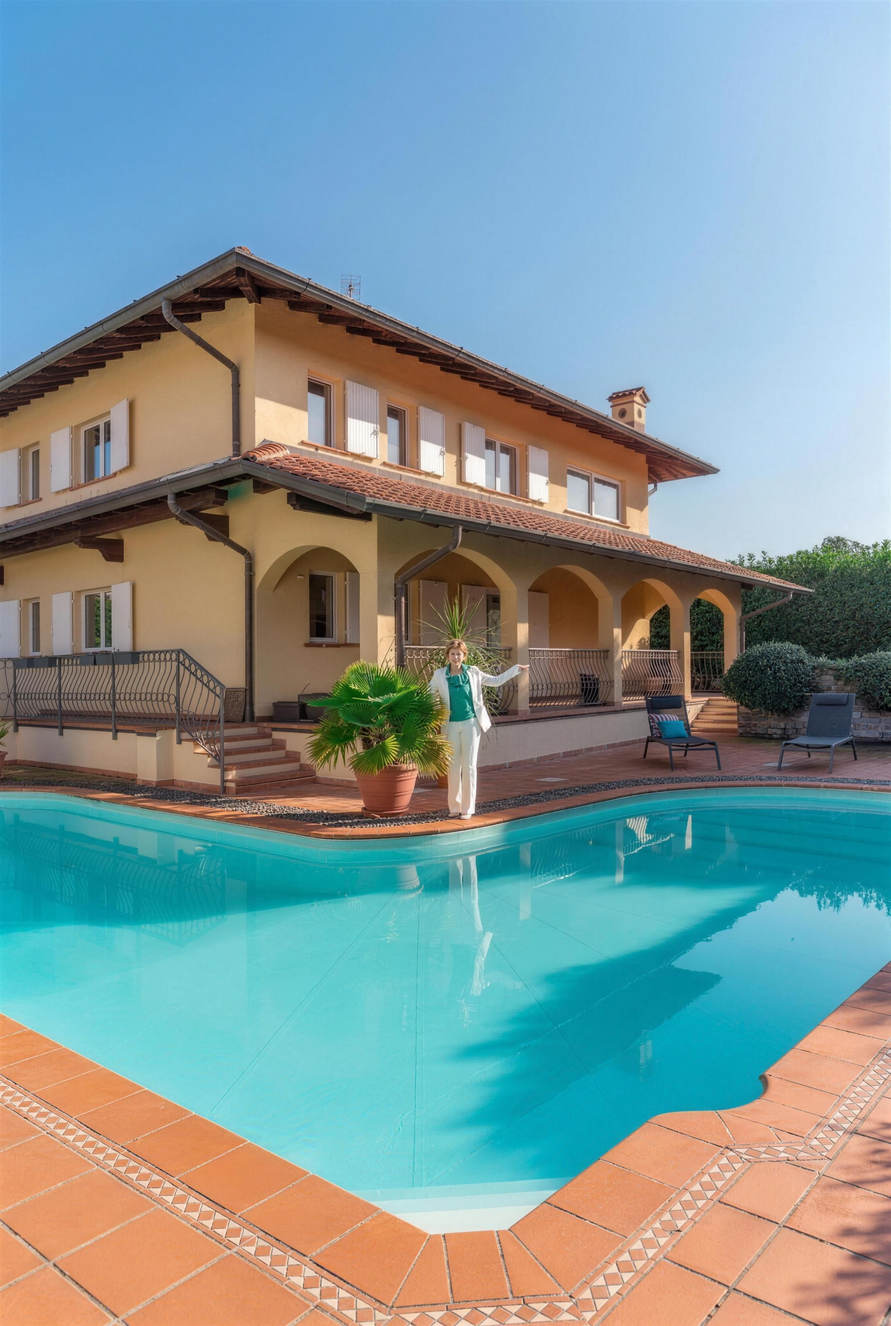
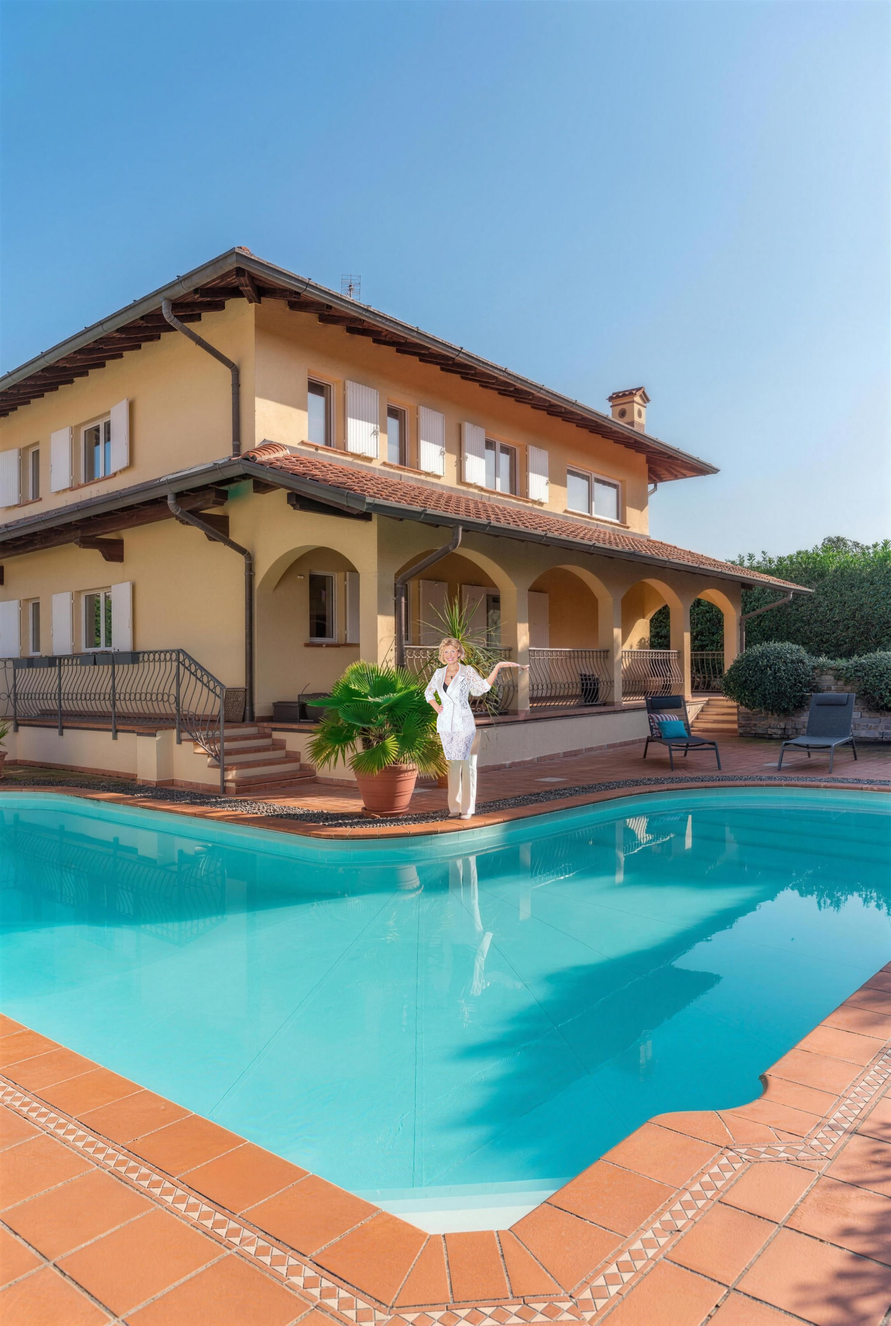
feat(hero): la Raffaela del preloader nella foto alta, il cielo pallido liberato (A73)
Alberto: «la foto della hero va modificata … mettere la foto di Raffaela
(attualmente è irriconoscibile perché modificata da Higgsfield). Usa quella
del preloader … non devono cambiare né rapporti, grandezza, né qualità».

- scripts/media/hero-raffaela.mjs (nuovo): un fotoritocco, non una
  generazione. Il plate senza la donna chiesto a Higgsfield (gpt_image_2_5
  2k, 3 crediti, job ef80fd4b) è allineato all'originale (SAD sulla
  balaustra: dx 1, dy 0) e usato solo nelle schegge della figura alterata
  (maschera = differenza originale/plate su copie sfumate, 17.387 px); la
  sagoma vera del preloader (raffaela-sagoma.png) riscalata a 274×352 e
  posata a (1220, 1833) sui pantaloni e le scarpe della foto. JPEG
  2560×3812 q92 4:4:4.
- scripts/media/cielo.mjs: `pallido` (L ≥ 0,78, tinta 190-235°, B − R ≥ 28
  → cielo) più raggio 700 e libere 0,42 sull'hero: la tasca di cielo
  chiaro fra le fronde a destra si libera senza crediti.
- hero.json e la striscia 9:16 rigenerati (cima 0,194 → --dt-hero-cima da
  768 px), DESIGN.md, PRODUCT.md, registro §11 (A73 applicata) e handoff.

Prove: npm test 2291/2291, tsc e eslint puliti; e2e hero-alto +
preloader-corta sul build 33/34 (il rosso è il lampo tedesco a 390,
preesistente). Crediti Higgsfield restanti: 2.

Changed region(s): [[0.4688, 0.4683, 0.5938, 0.5931]]

diff --git a/app/globals.css b/app/globals.css
@@ -201,7 +201,7 @@
   :root {
     --dt-hero-ar: 2560 / 3812;
     --dt-hero-hw: 1.4891;
-    --dt-hero-cima: 0.192;
+    --dt-hero-cima: 0.194;
   }
 }
 

diff --git a/DESIGN.md b/DESIGN.md
@@ -384,7 +384,7 @@ Il modello spaziale è quello di una rivista a pagina unica: un margine laterale
 - **Passo dei blocchi in home** (Alberto, 20 set.): fra la testa di capitolo e la prima riga, e fra una riga foto+testo e la successiva, il passo è `clamp(2.5rem, 6vh, 4.5rem)` (Paths, Metodo, Voci) o `6vh` (Servizi, rotaia del team); `clamp(4rem, 10vh, 8rem)` resta ai blocchi che chiudono un capitolo. Le riprese larghe (3:2, 16:9) di Paths e Servizi stanno nella metà forzata a 16:9 come gli atti del Metodo, non nel quadrato che ne buttava un terzo.
 - **Griglia** (decisione di lavoro, 11 set.): un solo template a due colonne da lg (1024 px), `grid gap-[6vw] lg:grid-cols-2 lg:items-center`, col media da un lato e il testo dall'altro rientrato con `lg:pl-[6vw]` (o `lg:pr-[6vw]` sulla riga specchiata, che porta anche `lg:order-2` sul media). Le sette proporzioni su misura di prima facevano cominciare la colonna di testo in sei punti diversi, e scorrendo l'occhio non ritrovava mai la stessa linea verticale. Una riga rompe la griglia solo con un offset dichiarato e ripetuto (`lg:-mt-[8vh]` per risalire nel padding del capitolo), mai con una larghezza unica. Le liste vanno a 2 (md) e 3 (lg) colonne; il footer a `1.4fr 1fr 1fr 1fr` con gap 3rem.
 - **Ritmo verticale dentro il capitolo**: eyebrow → titolo 1.5rem; titolo → lead 2rem; lead → CTA 2rem; blocco → blocco `clamp(3rem, 8vh, 6rem)` o `clamp(4rem, 10vh, 8rem)`; titolo → media `clamp(1.5rem, 4vh, 3rem)`; sopra il primo schermo delle pagine interne `clamp(2rem, 6vh, 4rem)`.
-- **Primo schermo della home: l'hero alto (A49 e A71 di Alberto, 22 set. 2026, sera).** Si apre con la testata chiara. Sotto, in flusso e senza corridoio, sta la foto ALTA di Raffaela davanti alla villa con piscina: lo scatto `villa-pool.jpg` di A55 esteso a 2:3 con Higgsfield (outpaint + upscale 4K, `hero-raffaela-piscina-alta.jpg`, 2560×3812) e col cielo trasparente da `scripts/media/cielo.mjs` (`hero-raffaela-piscina-alta-cielo.webp`); sul telefono la striscia 9:16 centrata, ritagliata dallo stesso WebP da `scripts/media/hero-piscina.mjs` (`-m-cielo.webp`, 2144×3812: Raffaela intera al centro, escono 208 px per lato; D-A49-4: la 2:3 a 390 lasciava 180 px di carta nel primo schermo). A49: «non c'è né l'immagine alta che fa da sfondo pagina a schermo intero, né l'effetto dello scroll dentro l'immagine perché l'hai tagliata a metà e bloccato lo scroll della pagina per l'effetto zoom»; A71: «sì, fallo, anche il voto e i due link … e falla no-bg così è più bella». È la testa di era senza il blocco sull'avorio (`HeroCinematic.tsx` riusa `.dt-testa_*` più `.dt-hero`; i numeri in `app/lib/motion/hero.ts` e `hero.json`): riquadro = la carta, strato in flusso alto quanto la foto (`--dt-hero-ar`, `sizes` 100vw, qualità 75, `object-position` 50 % 0 %: nulla è ritagliato, A27), scatola della foto con le bande del segno (hero.json `segno`, la parete dell'ala sinistra: 0,269-0,695), spazio sopra dentro lo strato. Il tuffo di A18-A23 (corridoio sticky di 200svh, zoom 1→2, lift, il foglio di Posizionamento a coprire) è morto. La SALITA A RIPOSO (D-A49-1): lo strato sale sotto la testata di `testo × H − banda` (H l'altezza resa: 82 px a 1440×900, 0 sul telefono e a 1024×768), mai oltre il cielo trasparente e mai negativa, così il primo schermo (`--dt-band-h`, la scatola su cui si apre l'arco del preloader: il patto della porta) finisce dove comincia il blocco: cielo-carta e villa, senza una riga tagliata dalla piega. Da lg posano sulla foto: il BLOCCO — sovratitolo, H1 a d3 × 1,2, «Richiedi la valutazione», «Vendi casa» e «Cerco casa», il voto con le cinque stelle d'oro — in bianco senza ombra (A70) dalla cima del portico a destra di Raffaela (`testo` 0,42: la banda scura misurata il 22 set. con `scripts/.probe/a49/acqua.mjs`, L 0,28-0,39 e meno del 12 % di pixel chiari fra 0,42 e 0,60 nella colonna destra; l'acqua invece è chiara, L 0,70 a sinistra, e non regge il bianco), in un terzo di riga a destra (32vw, x ≥ 60 %) allineato a sinistra, così nessuna lettera la copre e la sua mano tesa lo presenta (D-A49-2); e la MARCA — il lockup «Domus Tua» (`--font-brand`, grafite e rosso, 10,5vw da lg: A55) con sotto la firma Pinyon rossa, non più a cavallo del bordo — sull'acqua in basso a destra, che finisce a `coda` 0,85 (D-A49-3; L 0,54-0,57 lì: grafite 5,5:1, rosso 3:1); sotto resta la coda libera (0,15 della foto: 322 px a 1440×900, 229 a 1024×640, sempre più di un quarto di viewport) in cui la foto si ritira nella cornice della cartolina 8/22 mentre sale (`ChiusuraFoto`, A53, con la firma del capitolo: dtCartolina, scrub 0,9, il motivo comune d'uscita delle foto alte, D-A49-6). La posa è alta (coda − testo) × H con il blocco in cima e la marca in fondo (aspect-ratio coi numeri di hero.ts: nessun px scritto da JS, CLS 0). Sotto lg il lockup e la firma posano sull'acqua, centrati, dal 0,68 (`acqua`) al bordo in cotto (0,93), e il blocco segue la foto sulla carta, in inchiostro, centrato (Alberto, 10 set.: «rimettilo centrale»). Il rito delle lettere (ruoli `title` e `accent`, A20/A22) suona all'handoff del preloader per i gruppi in scena e alla prima entrata in scena per gli altri (D-A49-5: da lg a riposo lockup e H1 stanno sotto la piega, e un flip fuori campo non lo vede nessuno). Con reduced-motion e senza JS lo stato è questo, fermo: nessun clip, nessuno sticky. Nessun velo. Il `<video>` si monta solo se è abilitato in `media.ts`. La sagoma del preloader (`raffaela-sagoma-villa*.webp`, ritaglio 10 % 100 %) non coincide con la foto (A55) e resta sulla banda: vedi **Il patto della porta**. Da mostrare ad Alberto: la piega a riposo (cielo-carta nel primo schermo), il blocco a destra, il lockup a 0,68-0,85 invece che sul bordo.
+- **Primo schermo della home: l'hero alto (A49 e A71 di Alberto, 22 set. 2026, sera).** Si apre con la testata chiara. Sotto, in flusso e senza corridoio, sta la foto ALTA di Raffaela davanti alla villa con piscina: lo scatto `villa-pool.jpg` di A55 esteso a 2:3 con Higgsfield (outpaint + upscale 4K, 2560×3812) e, da A73 (la notte: «mettere la foto di Raffaela … usa quella del preloader … non devono cambiare né rapporti, grandezza, né qualità»), con la Raffaela VERA del preloader (`raffaela-sagoma.png`, il ritaglio in pizzo) posata a scala e posizione della figura che l'upscale aveva alterato, sui pantaloni e le scarpe della foto, con le schegge della figura vecchia coperte da un plate di Higgsfield allineato (`scripts/media/hero-raffaela.mjs`: un fotoritocco, la foto resta 2560×3812, `hero-raffaela-piscina-alta.jpg`); il cielo trasparente da `scripts/media/cielo.mjs` (`hero-raffaela-piscina-alta-cielo.webp`; A73: la tasca pallida fra le fronde a destra si libera con `pallido`, `raggio 700`, `libere 0,42`); sul telefono la striscia 9:16 centrata, ritagliata dallo stesso WebP da `scripts/media/hero-piscina.mjs` (`-m-cielo.webp`, 2144×3812: Raffaela intera al centro, escono 208 px per lato; D-A49-4: la 2:3 a 390 lasciava 180 px di carta nel primo schermo). A49: «non c'è né l'immagine alta che fa da sfondo pagina a schermo intero, né l'effetto dello scroll dentro l'immagine perché l'hai tagliata a metà e bloccato lo scroll della pagina per l'effetto zoom»; A71: «sì, fallo, anche il voto e i due link … e falla no-bg così è più bella». È la testa di era senza il blocco sull'avorio (`HeroCinematic.tsx` riusa `.dt-testa_*` più `.dt-hero`; i numeri in `app/lib/motion/hero.ts` e `hero.json`): riquadro = la carta, strato in flusso alto quanto la foto (`--dt-hero-ar`, `sizes` 100vw, qualità 75, `object-position` 50 % 0 %: nulla è ritagliato, A27), scatola della foto con le bande del segno (hero.json `segno`, la parete dell'ala sinistra: 0,269-0,695), spazio sopra dentro lo strato. Il tuffo di A18-A23 (corridoio sticky di 200svh, zoom 1→2, lift, il foglio di Posizionamento a coprire) è morto. La SALITA A RIPOSO (D-A49-1): lo strato sale sotto la testata di `testo × H − banda` (H l'altezza resa: 82 px a 1440×900, 0 sul telefono e a 1024×768), mai oltre il cielo trasparente e mai negativa, così il primo schermo (`--dt-band-h`, la scatola su cui si apre l'arco del preloader: il patto della porta) finisce dove comincia il blocco: cielo-carta e villa, senza una riga tagliata dalla piega. Da lg posano sulla foto: il BLOCCO — sovratitolo, H1 a d3 × 1,2, «Richiedi la valutazione», «Vendi casa» e «Cerco casa», il voto con le cinque stelle d'oro — in bianco senza ombra (A70) dalla cima del portico a destra di Raffaela (`testo` 0,42: la banda scura misurata il 22 set. con `scripts/.probe/a49/acqua.mjs`, L 0,28-0,39 e meno del 12 % di pixel chiari fra 0,42 e 0,60 nella colonna destra; l'acqua invece è chiara, L 0,70 a sinistra, e non regge il bianco), in un terzo di riga a destra (32vw, x ≥ 60 %) allineato a sinistra, così nessuna lettera la copre e la sua mano tesa lo presenta (D-A49-2); e la MARCA — il lockup «Domus Tua» (`--font-brand`, grafite e rosso, 10,5vw da lg: A55) con sotto la firma Pinyon rossa, non più a cavallo del bordo — sull'acqua in basso a destra, che finisce a `coda` 0,85 (D-A49-3; L 0,54-0,57 lì: grafite 5,5:1, rosso 3:1); sotto resta la coda libera (0,15 della foto: 322 px a 1440×900, 229 a 1024×640, sempre più di un quarto di viewport) in cui la foto si ritira nella cornice della cartolina 8/22 mentre sale (`ChiusuraFoto`, A53, con la firma del capitolo: dtCartolina, scrub 0,9, il motivo comune d'uscita delle foto alte, D-A49-6). La posa è alta (coda − testo) × H con il blocco in cima e la marca in fondo (aspect-ratio coi numeri di hero.ts: nessun px scritto da JS, CLS 0). Sotto lg il lockup e la firma posano sull'acqua, centrati, dal 0,68 (`acqua`) al bordo in cotto (0,93), e il blocco segue la foto sulla carta, in inchiostro, centrato (Alberto, 10 set.: «rimettilo centrale»). Il rito delle lettere (ruoli `title` e `accent`, A20/A22) suona all'handoff del preloader per i gruppi in scena e alla prima entrata in scena per gli altri (D-A49-5: da lg a riposo lockup e H1 stanno sotto la piega, e un flip fuori campo non lo vede nessuno). Con reduced-motion e senza JS lo stato è questo, fermo: nessun clip, nessuno sticky. Nessun velo. Il `<video>` si monta solo se è abilitato in `media.ts`. La sagoma del preloader (`raffaela-sagoma-villa*.webp`, ritaglio 10 % 100 %) non coincide con la foto (A55) e resta sulla banda: vedi **Il patto della porta**. Da mostrare ad Alberto: la piega a riposo (cielo-carta nel primo schermo), il blocco a destra, il lockup a 0,68-0,85 invece che sul bordo.
 - **Primo schermo delle pagine interne: «la testa di era»** (`PageHero` + `PageHeroTesta`; A38, A41, A45 e A46 di Alberto, 20-21 set.; lo usano 11 pagine, 9 con la foto della villa e 2 legali). **Il cielo delle foto alte è trasparente e la villa posa sulla carta** (A46 di Alberto, 21 set., sera: «su eraresidence questa foto che usa come background alta ha il cielo mascherato, è no bg: ecco perché sembra un tutt'uno il cielo con il colore dello sfondo del sito. Dobbiamo fare la stessa cosa nel nostro sito, dove ci sono le immagini così alte»): le sette teste col cielo montano `<nome>-cielo.webp` (alpha, stessa risoluzione, `scripts/media/cielo.mjs`; `tinte.json` porta per rotta `cielo: { file, linea, cima }`), i due attici restano interni. Le scritte, che con A38/A40 stavano «nel cielo» in bianco nudo, **tornano nell'inchiostro della rivista e stanno SOPRA il soggetto, mai sopra la foto**: occhiello rosso, h1 `--color-ink`, lead grafite, calligrafia rossa, bottone rosso pieno, link fantasma inchiostro (`ghost`), nessuna ombra, nessun `!`. Regola unica per le undici teste: dove la foto non ha cielo (attici, legali, la tenda di /open-domus) il blocco sta comunque sull'avorio e la foto comincia sotto i comandi. **La geometria** (globals.css «La testa di era»): il riquadro `.dt-testa_riquadro` è la CARTA, in flusso, `position: relative`, fondo `--color-cream`, `overflow: clip`, senza altezza propria (A45: la foto è la pagina, e scorre 1:1 — nessuno sticky, nessun pan, nessuno zoom, nessun pin); dentro, primo nel DOM, il blocco `.dt-testa_blocco`, in flusso, alto quanto il contenuto e da lg almeno 100svh, griglia a tre righe centrate come «Perfect sea views» (lead in alto sotto la testata, occhiello + h1 + calligrafia al centro, i due comandi in basso); poi lo strato `.dt-testa_strato`, IN FLUSSO, alto quanto la foto resa (`aspect-ratio: var(--dt-testa-ar)`, il rapporto del sorgente scritto da `PageHero`: 2146 px a 1440), portato SU fino alla CIMA del soggetto con `margin-top: calc(-100% * var(--dt-cielo-h))` — `--dt-cielo-h` è `cielo.cima` (la prima riga in cui almeno il 5 % dei pixel è opaco; sopra c'è solo cielo, cioè carta) in frazione della larghezza, `cieloH()` di `testa.ts` — così il soggetto comincia esattamente al fondo del blocco su ogni fascia (misurato il 21 set.: /vendi 470 px sotto la cima a 1440, i cipressi al fondo del primo schermo e il tetto a 1130; /acquista 863; interni e /open-domus 0, la foto tutta sotto il blocco). Non la `linea` (dove il soggetto riempie la larghezza): con lei l'h1 di /vendi posava sui cipressi e il bottone sul tetto. Sul telefono il blocco è alto quanto il contenuto e la foto 2:3 segue a larghezza piena (585 px a 390) con la cima subito sotto i comandi, senza buco d'avorio. I marcatori `.dt-testa_soggetto` (uno per banda `segno` di `tinte.json`: le corse in cui la striscia del segno, 2-6 % della larghezza, è opaca e scura, misurate da `scripts/media/tinte.mjs`; assoluti nella scatola della foto `.dt-testa_foto`, dentro lo strato, `data-bg="foto"`) danno al segno la sola villa scura: sul cielo, che è la carta, e sui muri bianchi il segno resta grafite (revisione del 22 set., C01/G02). Il placeholder prima del decode (D125, la tinta alta) sta sulla scatola della foto (`.dt-testa_foto`: da lg riempie lo strato, sotto lg è alta quanto la foto resa, così la tinta non colora mai lo spazio sotto la foto) e sulle sette teste col cielo è la carta stessa. L'h1 ha una misura sua, `clamp(3rem, 9vw, 9rem)` con interlinea 0.92, da lg `clamp(3.5rem, 7vw, 8rem)`, in colonna ≤ 18ch. **Lo spazio sopra la foto** (A48 di Alberto, 22 set.: «questo vale anche per /vendi /acquista /metodo domus e /opendomus … scrollo solo l'immagine e le scritte delle sezioni successive al posto di metterle durante l'immagine, le hai messe dopo … la ricerca intelligente dovrebbe essere più in alto, sopra l'immagine»; la sera, A54: «dobbiamo riempire più spazi possibili nelle foto alte a schermo intero … questo vale per tutte le pagine. home, vendi, acquista eccetera» e «metti una lieve ombra se non si legge, o fai le scritte più grandi»). Dentro lo strato, dopo la scatola della foto, `.dt-testa_sopra` porta IN FLUSSO i tre punti di prova e le sezioni che la pagina posa sulla foto (prop `sopra` di `PageHero`), e comincia subito sotto il blocco (`padding-top` = il cielo trasparente, `--dt-cielo-h`), così le sezioni riempiono la foto verso il basso. Da lg le scritte sono nel grigio del lockup, senza ombra (A56, 22 set. pomeriggio: «le scritte bianche sopra le immagini, mettile di colore grigio, come quello della hero della scritta "domus"»; fino ad A56 bianche con l'ombra attaccata alle lettere, il valore unico del sito, ink-media.ts, lo stesso delle cinque stelle; `ink-media.test` lo pinna carattere per carattere) e i corpi di testo salgono alla misura del lead; le utility di colore e di fondo dentro le sezioni cedono al bianco e al trasparente (regole unlayered sotto il cancello `data-sopra="foto"`, che PageHero mette sulle nove teste con la foto della villa; i due legali hanno `carta`). Sotto lg la foto 2:3 è alta 585 px a 390 e non regge una sezione: lo spazio sopra segue la foto, in inchiostro sull'avorio. Le sezioni sono atomiche (o tutta sulla foto o tutta sulla carta) e lo strato è alto max(foto, cielo + contenuto): la e2e a28 ferma una coda oltre il 5 % della foto. Cosa posa oggi: /vendi i tre punti, «Costi chiari» e le tre leve; /acquista i tre punti e la ricerca intelligente intera (campo e cinque tendine; filtri di affinamento e risultati sulla carta in `#case`); /metodo le tre leve; /open-domus il claim di prodotto; /recensioni e /lavora-con-noi i tre punti. Il bianco nudo di A40 resta per il blocco della testa (che sta sull'avorio); per le sezioni sulla foto A54 lo supera perché, misurato il 22 set. per terzi della colonna del testo, sulle foto della villa il bianco nudo reggeva solo su prato e piscina (su /acquista il 52-77 % della foto, su /recensioni nessuna riga) e Alberto vuole le sezioni su tutta la foto. **La chiusura della foto** (A53, la sera del 22: «quando arriviamo alla fine della foto (dove c'è l'erba) la foto con un animazione si chiude, come qui», la cartolina del Congedo): `ChiusuraFoto.tsx`, montato da PageHeroTesta dopo lo spazio sopra. Quando il fondo dello spazio sopra passa la cima del viewport (da lg) la scatola della foto si ritira nella cornice della cartolina — 8 % sopra e sotto, 22 % ai lati; 4/14 su tablet e 4/10 sul telefono, dove parte quando il fondo della foto arriva al fondo del viewport — mentre sale, con lo scrub e l'ease dtCartolina, fino al 10 % (30 % sotto lg) del viewport: la meccanica della banda del Congedo sotto la soglia, senza sticky né pin, col clip sulla scatola della foto e mai su un antenato. Si arma solo se la coda libera sotto le scritte è almeno un quarto di viewport (su /vendi le sezioni arrivano al fondo della piscina e la foto finisce dritta); con reduced-motion e senza JS non succede niente. L'inquadratura (`objectPosition`) resta in `tinte.json` (`lg` / `sotto`, D180) e con lo strato al rapporto della foto non ritaglia nulla. Il layout è tutto in CSS prima del paint: con reduced-motion e senza JS la pagina è identica; CLS 0. **La deroga di Alberto a WCAG 1.4.3 (A38 + A40, «bianco nudo») è chiusa con A46**: h1 e lead reggono 4,5:1 sulla carta, misurato sui pixel resi da `e2e/a11y.spec.ts` (il numero di `qualita/a38/inquadrature.md` — otto rotte su nove sotto 3:1 — descrive lo stato di A40, superato). La testata sopra la testa è quella del resto del sito: nessun `data-su-foto`, nessuna voce bianca, la barra sticky sotto lg cream-deep come ovunque (D82 morta).
 - **Media: tre moduli, non dodici.** `.dt-media-full` (tutta larghezza, 16:9), `.dt-media-half` (1:1) e `.dt-media-column` (4:5; col modificatore `--tall` 9:16). Da 64rem la metà e la colonna valgono 42vw, con un massimo di 640 px. Sono scatole: dentro ci va `<Image fill className="object-cover">` sopra avorio profondo. La metà e la colonna sono 3vw più larghe della loro traccia di griglia (42vw contro 39vw) e sconfinano nel gutter, così il loro bordo interno cade sulla mezzeria della pagina (x = 720 a 1440), la linea verticale che si vuole ritrovare scorrendo. Nella riga specchiata serve `lg:justify-self-end`, altrimenti la scatola sborda dal margine.
   - *Dove.* L'intro del Team usa la metà; le tessere del Team la colonna; lo Short in evidenza di «Perché Domus Tua» la colonna verticale (`dt-media-column--tall`, 9:16), che da lg risale di 10vw sotto il titolo e ha un tetto di 420 px, ed è l'unico uso vivo del modificatore; gli atti del Metodo la metà forzata a 16:9 (`!aspect-video`); PageHero la banda forzata a 4:5 / 16:9; il territorio di HorizonStory e le copertine di Voci la banda. Fuori modulo resta il ramo con le foto di `EditorialRows`, a `aspect-[4/3]`, che oggi nessuna pagina rende.

diff --git a/docs/superpowers/specs/2026-09-10-redesign-rivista-bianca-design.md b/docs/superpowers/specs/2026-09-10-redesign-rivista-bianca-design.md
@@ -442,7 +442,8 @@ settembre: le parole vengono dai commenti del codice e dai commit che le hanno a
 | A68 | 2026-09-22, sera, a lavoro in corso | «nel punto 5 aggiungi che all'uscita (come nelle altre foto lunga alta), si chiudesse con l'animazione» | **Applicata**: finita la coda, dallo sgancio dello schermo finché il fondo della sezione non arriva al 10 % del viewport, la scatola della piscina si ritira nella cornice della cartolina (8/22, `CORNICE_LG` di ChiusuraFoto, ease dtCartolina, scrub 0,9), la meccanica del Congedo e delle teste; solo col nastro. | transcript 2026-09-22 |
 | A69 | 2026-09-22, sera, alle domande di fine giro | «salotto doppio non mi piace, usa questa: villa-piscina-facciata.jpg» | **Applicata**: `villa-piscina-facciata.jpg` (3:2) nell'atto «Poi, le immagini» del Metodo; in D.O.C. «Preparazione» la terrazza sulle colline (`villa-terrazza-colline-alta.jpg`, generata). I 21 file non montati restano nel repo («lasciali nel repo»). | transcript 2026-09-22 |
 | A70 | 2026-09-22, sera | sul grigio che perde sulle bande scure delle teste: «prova a farle più grandi e grosse e bianche, poi lo testo e se non si leggono abbassiamo la luminosità dell'immagine» | **Applicata** (da testare da Alberto): sulle teste con `data-sopra="foto"` le scritte sono bianche senza ombra, titoli ×1,2, corpo a d4 con peso 500, link e occhielli a 600. Supera A56 sulle teste. Il passo dopo, se non leggono, è la luminosità della foto. | transcript 2026-09-22 |
-| A71 | 2026-09-22, sera | su A49: «sì, fallo, anche il voto e i due link. prova a vedere se riesci a fare un upscale se ho crediti, sennò fa niente, e falla no-bg così è più bella»; su /servizi e /domande-frequenti: «vanno bene così»; sul video di Roberta in Storie vere: «va bene così» | **Applicata** con A49 (stesso commit): outpaint 2:3 (job 453a6ceb, 2 crediti) + upscale 4K (2 crediti) e cielo trasparente fatti la sera del 22; il voto e i due link stanno nel blocco bianco sulla foto. /servizi, /domande-frequenti e la lettura di A60 sono chiusi. Crediti Higgsfield: 5. | transcript 2026-09-22 |
+| A71 | 2026-09-22, sera | su A49: «sì, fallo, anche il voto e i due link. prova a vedere se riesci a fare un upscale se ho crediti, sennò fa niente, e falla no-bg così è più bella»; su /servizi e /domande-frequenti: «vanno bene così»; sul video di Roberta in Storie vere: «va bene così» | **Applicata** con A49 (stesso commit): outpaint 2:3 (job 453a6ceb, 2 crediti) + upscale 4K (2 crediti) e cielo trasparente fatti la sera del 22; il voto e i due link stanno nel blocco bianco sulla foto. /servizi, /domande-frequenti e la lettura di A60 sono chiusi. Crediti Higgsfield: 5. |
+| A73 | 2026-09-22, notte, vedendo l'hero alto sul dev | «la foto della hero va modificata, usa Higgsfield per togliere il bg (ha qualche problema), e mettere la foto di Raffaela (attualmente è irriconoscibile perché modificata da Higgsfield). Usa quella del preloader. È come se dobbiamo photoshoppare la foto aggiungendo perfettamente la sagoma mascherata di Raffaela nella foto al posto di quella attuale. Proviamo con Higgsfield se fa. Non devono cambiare né rapporti, grandezza, né qualità» | **Applicata** (commit A73 del 22 set. 2026, notte; hash nel handoff): un fotoritocco, non una generazione (`scripts/media/hero-raffaela.mjs`): Higgsfield ha fatto solo il PLATE (gpt_image_2_5, «remove the woman», 2k, 3 crediti: job ef80fd4b), allineato e usato solo nelle schegge della figura alterata che la figura nuova non copre; la Raffaela del preloader (`raffaela-sagoma.png`, il ritaglio vero in pizzo) è posata a scala e posizione della figura vecchia (testa→ginocchio 352 px), sotto restano i pantaloni e le scarpe della foto; la JPEG resta 2560×3812 (ricodifica q92 4:4:4). Il «problema del bg» era la tasca di cielo pallido fra le fronde dell'albero a destra: cielo.mjs la libera con `raggio 700`, `libere 0,42` e il nuovo `pallido` (nessun credito di Higgsfield per lo sfondo). hero.json e la striscia 9:16 rigenerati (cima 0,194; `--dt-hero-cima`). Crediti Higgsfield: 2. | transcript 2026-09-22 | transcript 2026-09-22 |
 | — | 2026-09-13, approvazione del design | — | 2026-09-13, approvazione del design | «Approvato, scrivi la spec» | **Approvato:** spec `docs/superpowers/specs/2026-09-13-coreografia-era-residence-design.md` e handoff `docs/superpowers/handoff/2026-09-13-coreografia-era-residence.md` (50c2008); la costruzione segue `docs/superpowers/plans/2026-09-13-coreografia-era-residence.md`. | transcript 2026-09-13 |
 
 ### 11.2 Decisioni di lavoro

diff --git a/PRODUCT.md b/PRODUCT.md
@@ -147,7 +147,10 @@ stanno in `DESIGN.md`.
 - Hero: la foto alta di Raffaela davanti alla villa con piscina è la pagina (A49, Alberto, 22 set.:
   «non c'è né l'immagine alta che fa da sfondo pagina a schermo intero, né l'effetto dello scroll
   dentro l'immagine»; A71: «sì, fallo, anche il voto e i due link … e falla no-bg così è più bella»):
-  la piscina di A55 estesa a 2:3 con Higgsfield e col cielo trasparente, in flusso come le teste,
+  la piscina di A55 estesa a 2:3 con Higgsfield e col cielo trasparente (A73, 22 set., notte: la
+  Raffaela VERA del preloader posata al posto della figura che l'upscale aveva alterato, un
+  fotoritocco a parità di rapporto, grandezza e qualità: «non devono cambiare né rapporti, grandezza,
+  né qualità»), in flusso come le teste,
   senza corridoio, tuffo, zoom né lift. A riposo il primo schermo è cielo-carta e villa (la foto sale
   sotto la testata finché la piega non cade dove comincia il blocco: decisione di lavoro, da
   mostrare); scorrendo dentro la foto, il blocco (sovratitolo, H1, «Richiedi la valutazione», «Vendi
